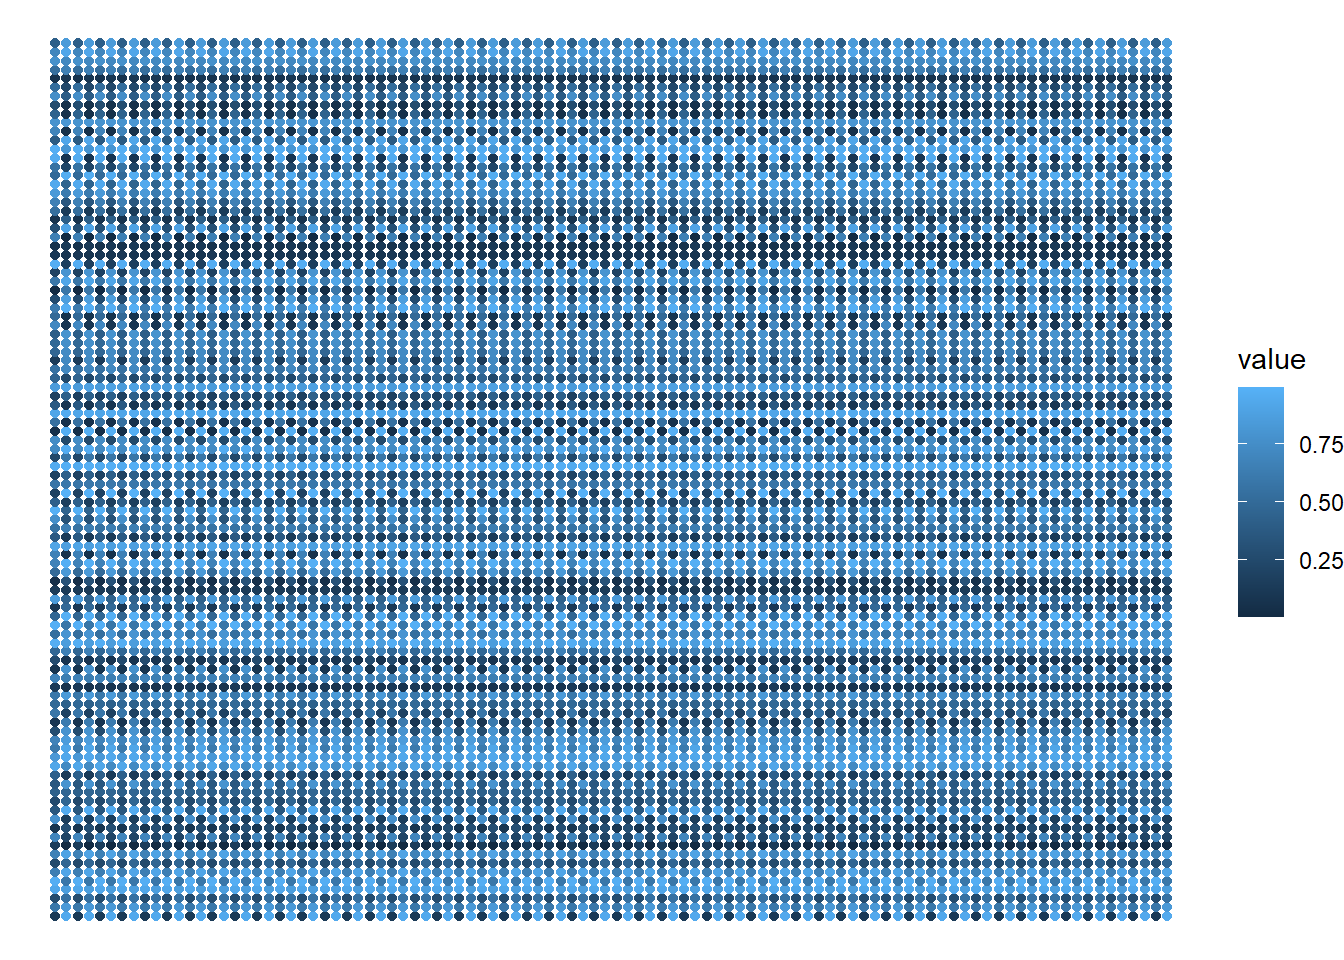
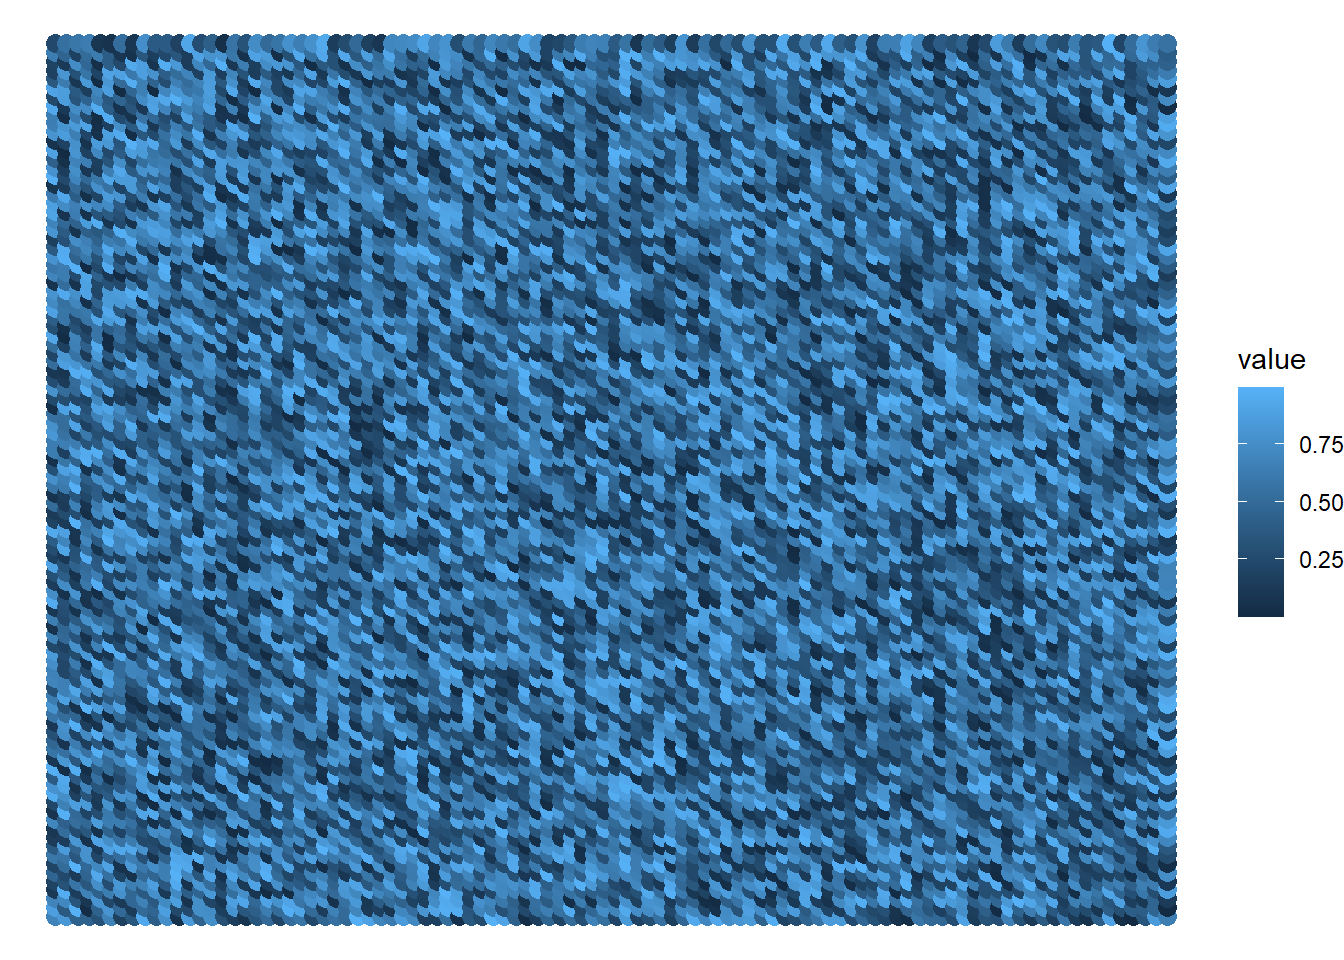
Add content

diff --git a/docs/Chapters/02-random.html b/docs/Chapters/02-random.html
@@ -173,7 +173,11 @@ pre > code.sourceCode > span > a:first-child::before { text-decoration: underlin
     <h2 id="toc-title">Table of contents</h2>
    
   <ul>
-  <li><a href="#the-begin" id="toc-the-begin" class="nav-link active" data-scroll-target="#the-begin"><span class="header-section-number">3.1</span> The begin</a></li>
+  <li><a href="#the-different-styles-of-randomness" id="toc-the-different-styles-of-randomness" class="nav-link active" data-scroll-target="#the-different-styles-of-randomness"><span class="header-section-number">3.1</span> The different styles of randomness</a></li>
+  <li><a href="#two-dimensional-randomness" id="toc-two-dimensional-randomness" class="nav-link" data-scroll-target="#two-dimensional-randomness"><span class="header-section-number">3.2</span> Two dimensional randomness</a>
+  <ul class="collapse">
+  <li><a href="#the-true-randomness-of-runif" id="toc-the-true-randomness-of-runif" class="nav-link" data-scroll-target="#the-true-randomness-of-runif"><span class="header-section-number">3.2.1</span> The true randomness of <code>runif()</code></a></li>
+  </ul></li>
   </ul>
 </nav>
     </div>
@@ -199,37 +203,88 @@ pre > code.sourceCode > span > a:first-child::before { text-decoration: underlin
 </header>
 
 
-<p>Stock prices are an example of chaos that exists in our economic system. For example, if tomorrow, Microsoft suffers a huge lost of investments (because of a wrong strategy, or some internal scandal, etc.), the stock prices of Apple will most likely go up. Apple did not had do to a thing! Its concurrent made a mistake, as a result, the price of its stock raised “automatically”, as a side-effect.</p>
-<p>Also, huge and billionaire companies such as Apple have some degree of control over their stock price. In other words, these companies can inject huge amounts of money into the market, or, influence government decisions to slightly influence the price of their stocks. So when these big companies influence the market, we introduce a new effect on the table.</p>
-<p>Sometimes we can predict some of these effects, specially if we have good sources of information inside the market. But there are so many effects (both in quantity and in quality), that becomes impossible to comprehend all of these effects at once, hence the “chaos feeling” that you feel when you work with the stock market.</p>
-<p>This is frustrating for humans. We want to comprehend everything we are seeing! We want to know why, when, who and how everything happens. But at the same time, we as humans have limited resources: a limit amount of attention that we can spend, and limited brain processing power that we can spend when learning/understanding about something.</p>
-<p>That is why some degree of order, or symmetry, or logic in a image is very pleasant to the eyes. Because is easy to understand a symmetric object. We can easily understand what we are seeing in the image.</p>
-<p>So when you are building your generative art, you want some degree of chaos and randomness. But you also want to balance this chaos with some degree of order. Hence the current chapter title (producing chaos in an ordered manner).</p>
-<section id="the-begin" class="level2" data-number="3.1">
-<h2 data-number="3.1" class="anchored" data-anchor-id="the-begin"><span class="header-section-number">3.1</span> The begin</h2>
+<!--
+Stock prices are an example of chaos that exists in our economic system.
+For example, if tomorrow, Microsoft suffers a huge lost of investments (because
+of a wrong strategy, or some internal scandal, etc.), the stock prices
+of Apple will most likely go up. Apple did not had do to
+a thing! Its concurrent made a mistake, as a result, the price of its
+stock raised "automatically", as a side-effect.
+
+Also, huge and billionaire companies such as Apple have some degree of
+control over their stock price. In other words, these companies can
+inject huge amounts of money into the market, or, influence government decisions
+to slightly influence the price of their stocks.
+So when these big companies influence the market, we introduce
+a new effect on the table.
+
+Sometimes we can predict some of these effects,
+specially if we have good sources of information inside the market.
+But there are so many effects (both in quantity and in quality), that becomes impossible
+to comprehend all of these effects at once, hence the "chaos feeling" that you feel
+when you work with the stock market.
+
+This is frustrating for humans. We want to comprehend everything we are seeing!
+We want to know why, when, who and how everything happens.
+But at the same time, we as humans have limited resources: a limit
+amount of attention that we can spend, and limited brain processing power
+that we can spend when learning/understanding about something.
+
+That is why some degree of order, or symmetry, or logic in a image is very
+pleasant to the eyes. Because is easy to understand a symmetric object.
+We can easily understand what we are seeing in the image.
+
+So when you are building your generative art, you want some degree of
+chaos and randomness. But you also want to balance this chaos with some
+degree of order. Hence the current chapter title (producing chaos in an ordered manner).
+-->
+<p>In this chapter, we will study more about how to produce chaos with randomness. We will learn about the different styles of randomness that are available in R, and we will also learn about producing randomness in one and two dimensional spaces.</p>
+<p>Generative art is mostly a synergy between chaos and order. A big part of it comes from combining random patterns we find in nature with the order and logic of math. In other words, we use geometry and a lot of math to draw and mold shapes in the screen, and we combine that with randomness to achieve random patterns that are interesting to look at.</p>
+<p>However, chaos is a hard topic in general for us, programmers. Because our job is the complete opposite of chaos. We work with logic, precision, and computers. Chaos and randomness is not a part of our essence.</p>
+<p>Furthermore, computers are, essentially, precision machines. As a result, it seems very wrong and unlikely to use them to produce chaos. But you can achieve that, if you want to, by asking the computer to produce random values, and using these random values as factors to produce the chaos you want.</p>
+<section id="the-different-styles-of-randomness" class="level2" data-number="3.1">
+<h2 data-number="3.1" class="anchored" data-anchor-id="the-different-styles-of-randomness"><span class="header-section-number">3.1</span> The different styles of randomness</h2>
+<p>We have different generators of random values available in R. Each generator produces random values following a specific rule or target. And as a consequence of that, the randomness that each generator produces will be slightly different from the others.</p>
+<p>In base R, there at least three generators that you must known:</p>
+<ul>
+<li><code>runif()</code> produces random values that follow a uniform distribution;</li>
+<li><code>rnorm()</code> produces random values that follow a normal distribution;</li>
+<li><code>sample()</code> produces a random sample from a set of values;</li>
+</ul>
+<p>The functions <code>runif()</code> and <code>rnorm()</code> can be used to generate random numbers, and the function <code>sample()</code> can be used when you are trying to select a random sample from a known set of values. To some extent, you can say that <code>sample()</code> is used whenever you want to randomly select a value (or select a random sample of values) from a known set of values.</p>
+<p>There are other generators available in R that might be very useful, specially trough the <code>ambient</code> R package<a href="#fn1" class="footnote-ref" id="fnref1" role="doc-noteref"><sup>1</sup></a>, which is a R interface to the <code>FastNoise</code> C++ library.</p>
+<p>This ambient package offers other two generators that are very important to us, which are:</p>
+<ul>
+<li><code>ambient::noise_perlin()</code>: produces random values using the Perlin Noise algorithm.</li>
+<li><code>ambient::noise_simplex()</code>: produces random values using the Simplex Noise algorithm.</li>
+</ul>
+</section>
+<section id="two-dimensional-randomness" class="level2" data-number="3.2">
+<h2 data-number="3.2" class="anchored" data-anchor-id="two-dimensional-randomness"><span class="header-section-number">3.2</span> Two dimensional randomness</h2>
+<section id="the-true-randomness-of-runif" class="level3" data-number="3.2.1">
+<h3 data-number="3.2.1" class="anchored" data-anchor-id="the-true-randomness-of-runif"><span class="header-section-number">3.2.1</span> The true randomness of <code>runif()</code></h3>
 <div class="cell">
 <div class="sourceCode cell-code" id="cb1"><pre class="sourceCode r code-with-copy"><code class="sourceCode r"><span id="cb1-1"><a href="#cb1-1" aria-hidden="true" tabindex="-1"></a><span class="fu">library</span>(ggplot2)</span></code><button title="Copy to Clipboard" class="code-copy-button"><i class="bi"></i></button></pre></div>
 <div class="cell-output cell-output-stderr">
 <pre><code>Warning: package 'ggplot2' was built under R version 4.3.2</code></pre>
 </div>
 <div class="sourceCode cell-code" id="cb3"><pre class="sourceCode r code-with-copy"><code class="sourceCode r"><span id="cb3-1"><a href="#cb3-1" aria-hidden="true" tabindex="-1"></a>n <span class="ot">&lt;-</span> <span class="dv">100</span></span>
-<span id="cb3-2"><a href="#cb3-2" aria-hidden="true" tabindex="-1"></a>random <span class="ot">&lt;-</span> <span class="fu">matrix</span>(</span>
-<span id="cb3-3"><a href="#cb3-3" aria-hidden="true" tabindex="-1"></a>  <span class="fu">c</span>(<span class="fu">runif</span>(n), <span class="fu">runif</span>(n)),</span>
-<span id="cb3-4"><a href="#cb3-4" aria-hidden="true" tabindex="-1"></a>  n, n</span>
-<span id="cb3-5"><a href="#cb3-5" aria-hidden="true" tabindex="-1"></a>)</span>
-<span id="cb3-6"><a href="#cb3-6" aria-hidden="true" tabindex="-1"></a></span>
-<span id="cb3-7"><a href="#cb3-7" aria-hidden="true" tabindex="-1"></a>d <span class="ot">&lt;-</span> <span class="fu">data.frame</span>(</span>
-<span id="cb3-8"><a href="#cb3-8" aria-hidden="true" tabindex="-1"></a>  <span class="at">col_id =</span> <span class="fu">rep</span>(<span class="fu">seq_len</span>(n), <span class="at">each =</span> n),</span>
-<span id="cb3-9"><a href="#cb3-9" aria-hidden="true" tabindex="-1"></a>  <span class="at">row_id =</span> <span class="fu">rep</span>(<span class="fu">seq_len</span>(n), <span class="at">times =</span> n),</span>
-<span id="cb3-10"><a href="#cb3-10" aria-hidden="true" tabindex="-1"></a>  <span class="at">value =</span> random <span class="sc">|&gt;</span> <span class="fu">as.vector</span>()</span>
-<span id="cb3-11"><a href="#cb3-11" aria-hidden="true" tabindex="-1"></a>)</span>
-<span id="cb3-12"><a href="#cb3-12" aria-hidden="true" tabindex="-1"></a></span>
-<span id="cb3-13"><a href="#cb3-13" aria-hidden="true" tabindex="-1"></a></span>
-<span id="cb3-14"><a href="#cb3-14" aria-hidden="true" tabindex="-1"></a><span class="fu">ggplot</span>(d) <span class="sc">+</span></span>
-<span id="cb3-15"><a href="#cb3-15" aria-hidden="true" tabindex="-1"></a>  <span class="fu">geom_point</span>(</span>
-<span id="cb3-16"><a href="#cb3-16" aria-hidden="true" tabindex="-1"></a>    <span class="fu">aes</span>(<span class="at">x =</span> col_id, <span class="at">y =</span> row_id, <span class="at">color =</span> value )</span>
-<span id="cb3-17"><a href="#cb3-17" aria-hidden="true" tabindex="-1"></a>  ) <span class="sc">+</span></span>
-<span id="cb3-18"><a href="#cb3-18" aria-hidden="true" tabindex="-1"></a>  <span class="fu">theme_void</span>()</span></code><button title="Copy to Clipboard" class="code-copy-button"><i class="bi"></i></button></pre></div>
+<span id="cb3-2"><a href="#cb3-2" aria-hidden="true" tabindex="-1"></a><span class="fu">set.seed</span>(<span class="dv">40</span>)</span>
+<span id="cb3-3"><a href="#cb3-3" aria-hidden="true" tabindex="-1"></a>random <span class="ot">&lt;-</span> <span class="fu">matrix</span>(<span class="fu">runif</span>(n <span class="sc">^</span> <span class="dv">2</span>), n, n)</span>
+<span id="cb3-4"><a href="#cb3-4" aria-hidden="true" tabindex="-1"></a></span>
+<span id="cb3-5"><a href="#cb3-5" aria-hidden="true" tabindex="-1"></a>d <span class="ot">&lt;-</span> <span class="fu">data.frame</span>(</span>
+<span id="cb3-6"><a href="#cb3-6" aria-hidden="true" tabindex="-1"></a>  <span class="at">col_id =</span> <span class="fu">rep</span>(<span class="fu">seq_len</span>(n), <span class="at">each =</span> n),</span>
+<span id="cb3-7"><a href="#cb3-7" aria-hidden="true" tabindex="-1"></a>  <span class="at">row_id =</span> <span class="fu">rep</span>(<span class="fu">seq_len</span>(n), <span class="at">times =</span> n),</span>
+<span id="cb3-8"><a href="#cb3-8" aria-hidden="true" tabindex="-1"></a>  <span class="at">value =</span> random <span class="sc">|&gt;</span> <span class="fu">as.vector</span>()</span>
+<span id="cb3-9"><a href="#cb3-9" aria-hidden="true" tabindex="-1"></a>)</span>
+<span id="cb3-10"><a href="#cb3-10" aria-hidden="true" tabindex="-1"></a></span>
+<span id="cb3-11"><a href="#cb3-11" aria-hidden="true" tabindex="-1"></a></span>
+<span id="cb3-12"><a href="#cb3-12" aria-hidden="true" tabindex="-1"></a><span class="fu">ggplot</span>(d) <span class="sc">+</span></span>
+<span id="cb3-13"><a href="#cb3-13" aria-hidden="true" tabindex="-1"></a>  <span class="fu">geom_point</span>(</span>
+<span id="cb3-14"><a href="#cb3-14" aria-hidden="true" tabindex="-1"></a>    <span class="fu">aes</span>(<span class="at">x =</span> col_id, <span class="at">y =</span> row_id, <span class="at">color =</span> value),</span>
+<span id="cb3-15"><a href="#cb3-15" aria-hidden="true" tabindex="-1"></a>    <span class="at">size =</span> <span class="dv">3</span></span>
+<span id="cb3-16"><a href="#cb3-16" aria-hidden="true" tabindex="-1"></a>  ) <span class="sc">+</span></span>
+<span id="cb3-17"><a href="#cb3-17" aria-hidden="true" tabindex="-1"></a>  <span class="fu">theme_void</span>()</span></code><button title="Copy to Clipboard" class="code-copy-button"><i class="bi"></i></button></pre></div>
 <div class="cell-output-display">
 <div>
 <figure class="figure">
@@ -238,25 +293,26 @@ pre > code.sourceCode > span > a:first-child::before { text-decoration: underlin
 </div>
 </div>
 </div>
+<p>When we use <code>rnorm()</code>, it still produces a pretty random result. However, we can see that the colors are more flat, they seem less random compared to <code>runif()</code>. What is happening is that <code>rnorm()</code> outputs random values based on a probabilistic distribution, or more specifically, based on a mean value.</p>
+<p>The end result of this, is that <code>rnorm()</code> tend to output values that are closer to the mean of the probabilistic distribution. In the case below, the mean value of the distribution is zero. So, the colors in the image below seen more flat, because the majority of the values sorted by <code>rnorm()</code> are values that are very close to zero.</p>
+<p>Hence, what you see in the image below is still a collection of many random values. But a big chunk of these random values are values that are very close to zero. That is why most of the points in this image are in the middle of the black and blue gradient scale.</p>
 <div class="cell">
 <div class="sourceCode cell-code" id="cb4"><pre class="sourceCode r code-with-copy"><code class="sourceCode r"><span id="cb4-1"><a href="#cb4-1" aria-hidden="true" tabindex="-1"></a><span class="fu">set.seed</span>(<span class="dv">40</span>)</span>
-<span id="cb4-2"><a href="#cb4-2" aria-hidden="true" tabindex="-1"></a>x <span class="ot">&lt;-</span> <span class="fu">rnorm</span>(n)</span>
-<span id="cb4-3"><a href="#cb4-3" aria-hidden="true" tabindex="-1"></a><span class="fu">set.seed</span>(<span class="dv">45</span>)</span>
-<span id="cb4-4"><a href="#cb4-4" aria-hidden="true" tabindex="-1"></a>y <span class="ot">&lt;-</span> <span class="fu">rnorm</span>(n)</span>
-<span id="cb4-5"><a href="#cb4-5" aria-hidden="true" tabindex="-1"></a>random <span class="ot">&lt;-</span> <span class="fu">matrix</span>(<span class="fu">c</span>(x, y), n, n)</span>
-<span id="cb4-6"><a href="#cb4-6" aria-hidden="true" tabindex="-1"></a></span>
-<span id="cb4-7"><a href="#cb4-7" aria-hidden="true" tabindex="-1"></a>d <span class="ot">&lt;-</span> <span class="fu">data.frame</span>(</span>
-<span id="cb4-8"><a href="#cb4-8" aria-hidden="true" tabindex="-1"></a>  <span class="at">col_id =</span> <span class="fu">rep</span>(<span class="fu">seq_len</span>(n), <span class="at">each =</span> n),</span>
-<span id="cb4-9"><a href="#cb4-9" aria-hidden="true" tabindex="-1"></a>  <span class="at">row_id =</span> <span class="fu">rep</span>(<span class="fu">seq_len</span>(n), <span class="at">times =</span> n),</span>
-<span id="cb4-10"><a href="#cb4-10" aria-hidden="true" tabindex="-1"></a>  <span class="at">value =</span> random <span class="sc">|&gt;</span> <span class="fu">as.vector</span>()</span>
-<span id="cb4-11"><a href="#cb4-11" aria-hidden="true" tabindex="-1"></a>)</span>
-<span id="cb4-12"><a href="#cb4-12" aria-hidden="true" tabindex="-1"></a></span>
-<span id="cb4-13"><a href="#cb4-13" aria-hidden="true" tabindex="-1"></a></span>
-<span id="cb4-14"><a href="#cb4-14" aria-hidden="true" tabindex="-1"></a><span class="fu">ggplot</span>(d) <span class="sc">+</span></span>
-<span id="cb4-15"><a href="#cb4-15" aria-hidden="true" tabindex="-1"></a>  <span class="fu">geom_point</span>(</span>
-<span id="cb4-16"><a href="#cb4-16" aria-hidden="true" tabindex="-1"></a>    <span class="fu">aes</span>(<span class="at">x =</span> col_id, <span class="at">y =</span> row_id, <span class="at">color =</span> value )</span>
-<span id="cb4-17"><a href="#cb4-17" aria-hidden="true" tabindex="-1"></a>  ) <span class="sc">+</span></span>
-<span id="cb4-18"><a href="#cb4-18" aria-hidden="true" tabindex="-1"></a>  <span class="fu">theme_void</span>()</span></code><button title="Copy to Clipboard" class="code-copy-button"><i class="bi"></i></button></pre></div>
+<span id="cb4-2"><a href="#cb4-2" aria-hidden="true" tabindex="-1"></a>random <span class="ot">&lt;-</span> <span class="fu">matrix</span>(<span class="fu">rnorm</span>(n <span class="sc">^</span> <span class="dv">2</span>), n, n)</span>
+<span id="cb4-3"><a href="#cb4-3" aria-hidden="true" tabindex="-1"></a></span>
+<span id="cb4-4"><a href="#cb4-4" aria-hidden="true" tabindex="-1"></a>d <span class="ot">&lt;-</span> <span class="fu">data.frame</span>(</span>
+<span id="cb4-5"><a href="#cb4-5" aria-hidden="true" tabindex="-1"></a>  <span class="at">col_id =</span> <span class="fu">rep</span>(<span class="fu">seq_len</span>(n), <span class="at">each =</span> n),</span>
+<span id="cb4-6"><a href="#cb4-6" aria-hidden="true" tabindex="-1"></a>  <span class="at">row_id =</span> <span class="fu">rep</span>(<span class="fu">seq_len</span>(n), <span class="at">times =</span> n),</span>
+<span id="cb4-7"><a href="#cb4-7" aria-hidden="true" tabindex="-1"></a>  <span class="at">value =</span> random <span class="sc">|&gt;</span> <span class="fu">as.vector</span>()</span>
+<span id="cb4-8"><a href="#cb4-8" aria-hidden="true" tabindex="-1"></a>)</span>
+<span id="cb4-9"><a href="#cb4-9" aria-hidden="true" tabindex="-1"></a></span>
+<span id="cb4-10"><a href="#cb4-10" aria-hidden="true" tabindex="-1"></a></span>
+<span id="cb4-11"><a href="#cb4-11" aria-hidden="true" tabindex="-1"></a><span class="fu">ggplot</span>(d) <span class="sc">+</span></span>
+<span id="cb4-12"><a href="#cb4-12" aria-hidden="true" tabindex="-1"></a>  <span class="fu">geom_point</span>(</span>
+<span id="cb4-13"><a href="#cb4-13" aria-hidden="true" tabindex="-1"></a>    <span class="fu">aes</span>(<span class="at">x =</span> col_id, <span class="at">y =</span> row_id, <span class="at">color =</span> value),</span>
+<span id="cb4-14"><a href="#cb4-14" aria-hidden="true" tabindex="-1"></a>    <span class="at">size =</span> <span class="dv">3</span></span>
+<span id="cb4-15"><a href="#cb4-15" aria-hidden="true" tabindex="-1"></a>  ) <span class="sc">+</span></span>
+<span id="cb4-16"><a href="#cb4-16" aria-hidden="true" tabindex="-1"></a>  <span class="fu">theme_void</span>()</span></code><button title="Copy to Clipboard" class="code-copy-button"><i class="bi"></i></button></pre></div>
 <div class="cell-output-display">
 <div>
 <figure class="figure">
@@ -281,9 +337,10 @@ pre > code.sourceCode > span > a:first-child::before { text-decoration: underlin
 <span id="cb7-9"><a href="#cb7-9" aria-hidden="true" tabindex="-1"></a></span>
 <span id="cb7-10"><a href="#cb7-10" aria-hidden="true" tabindex="-1"></a><span class="fu">ggplot</span>(d) <span class="sc">+</span></span>
 <span id="cb7-11"><a href="#cb7-11" aria-hidden="true" tabindex="-1"></a>  <span class="fu">geom_point</span>(</span>
-<span id="cb7-12"><a href="#cb7-12" aria-hidden="true" tabindex="-1"></a>    <span class="fu">aes</span>(<span class="at">x =</span> col_id, <span class="at">y =</span> row_id, <span class="at">color =</span> value )</span>
-<span id="cb7-13"><a href="#cb7-13" aria-hidden="true" tabindex="-1"></a>  ) <span class="sc">+</span></span>
-<span id="cb7-14"><a href="#cb7-14" aria-hidden="true" tabindex="-1"></a>  <span class="fu">theme_void</span>()</span></code><button title="Copy to Clipboard" class="code-copy-button"><i class="bi"></i></button></pre></div>
+<span id="cb7-12"><a href="#cb7-12" aria-hidden="true" tabindex="-1"></a>    <span class="fu">aes</span>(<span class="at">x =</span> col_id, <span class="at">y =</span> row_id, <span class="at">color =</span> value),</span>
+<span id="cb7-13"><a href="#cb7-13" aria-hidden="true" tabindex="-1"></a>    <span class="at">size =</span> <span class="dv">3</span></span>
+<span id="cb7-14"><a href="#cb7-14" aria-hidden="true" tabindex="-1"></a>  ) <span class="sc">+</span></span>
+<span id="cb7-15"><a href="#cb7-15" aria-hidden="true" tabindex="-1"></a>  <span class="fu">theme_void</span>()</span></code><button title="Copy to Clipboard" class="code-copy-button"><i class="bi"></i></button></pre></div>
 <div class="cell-output-display">
 <div>
 <figure class="figure">
@@ -294,6 +351,13 @@ pre > code.sourceCode > span > a:first-child::before { text-decoration: underlin
 </div>
 
 
+</section>
+</section>
+<section id="footnotes" class="footnotes footnotes-end-of-document" role="doc-endnotes">
+<hr>
+<ol>
+<li id="fn1"><p><a href="https://ambient.data-imaginist.com/index.html" class="uri">https://ambient.data-imaginist.com/index.html</a>.<a href="#fnref1" class="footnote-back" role="doc-backlink">↩</a></p></li>
+</ol>
 </section>
 
 </main> <!-- /main -->
